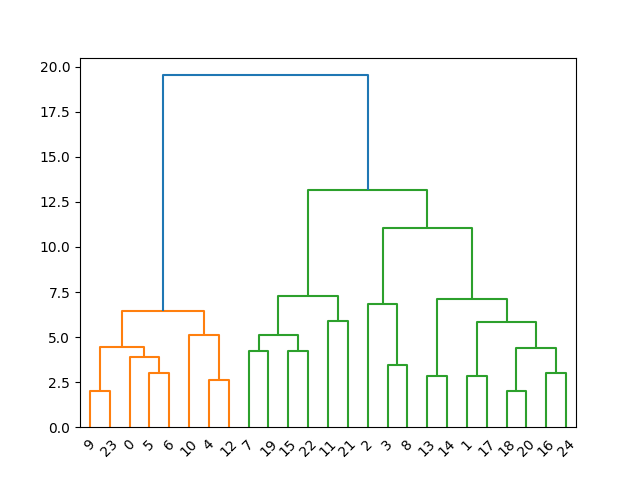
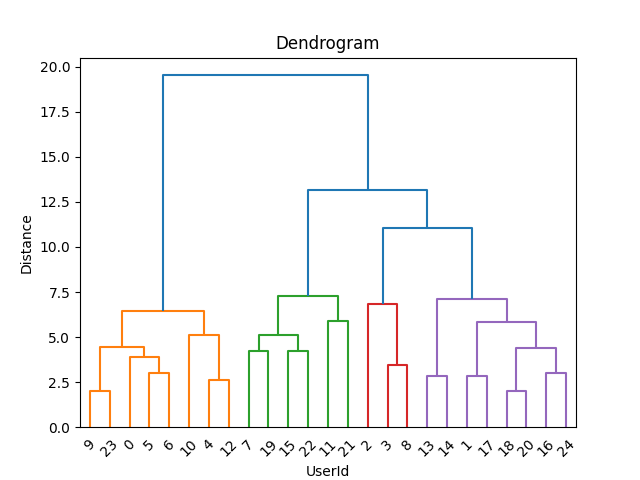
feat: choose clusters

diff --git a/src/wait_people_analytics/pipelines/clustering/nodes.py b/src/wait_people_analytics/pipelines/clustering/nodes.py
@@ -37,6 +37,7 @@ def prepare_data_for_clustering(
 def generate_hierarchical_clustering_visual(
     df: pd.DataFrame,
     hierarchical_params: dict[str, Any],
+    color_threshold: float,
 ) -> Any:
     """
     Generate full dendrogram of hierarchical clustering
@@ -74,13 +75,11 @@ def generate_hierarchical_clustering_visual(
     ).astype(float)
 
     # Plot the corresponding dendrogram
-    sch.dendrogram(linkage_matrix)
+    sch.dendrogram(linkage_matrix, color_threshold=color_threshold)
 
-    # plt.figure(figsize=(10, 4))
-    # plt.xticks(rotation=90)
-    # plt.title("Dendrogram")
-    # plt.xlabel("UserId")
-    # plt.ylabel("Distance")
+    plt.title("Dendrogram")
+    plt.xlabel("UserId")
+    plt.ylabel("Distance")
     return plt
 
 

diff --git a/src/wait_people_analytics/pipelines/clustering/pipeline.py b/src/wait_people_analytics/pipelines/clustering/pipeline.py
@@ -42,6 +42,7 @@ def _get_pipeline_template() -> Pipeline:
                 inputs=[
                     "scaled_skills_table",
                     "params:hierarchical_params",
+                    "params:color_threshold",
                 ],
                 outputs="hierarchical_clustering_visual",
             ),
